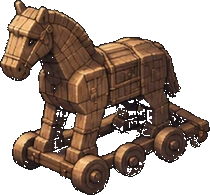
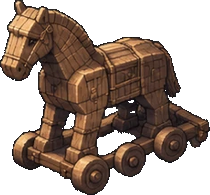
fix : 트로이 목마의 뒷다리가 사라지고 몸이 통째로 흐려지던 문제 수정 — 그늘진 뒷다리·배 밑을 배경으로 지우지 않도록 gen_env_from_sheet.py에 그림별 어두운 색 기준(DARK_KEEP, 목마 16)을 두고 horse.png 다시 생성, 가림 투명화는 그림 사각형 대신 실제로 칠해진 픽셀이 플레이어 몸을 덮을 때만 작동(iso_level.gd의 _covers)

diff --git a/godot/tools/gen_env_from_sheet.py b/godot/tools/gen_env_from_sheet.py
@@ -39,24 +39,26 @@ ITEMS = {
     "spear_rack": ((211, 278), (200, 360), (1, 1), K),
     "cart": ((289, 392), (200, 360), (1, 1), K),
 }
+# 그늘진 어두운 갈색이 배경과 가까운 그림: 붉은빛 어두운 색을 남기는 기준을 낮춘다(목마 뒷다리)
+DARK_KEEP = {"horse": 16}
 # 바닥 그림 줄 → 게임 바닥 이름 (env.json floor_atlas.rows 순서로 다시 쌓는다)
 FLOOR_SRC = {"cobble": 0, "plaza": 1, "dirt": 2, "road": 3, "grass": 4, "ash": 5}
 FLOOR_BOX = (8, 369, 376, 650)
 TILE = (64, 32)
 
 
-def mask_of(a):
+def mask_of(a, dark_keep=30):
     a = a.astype(int)
     d = np.abs(a - BG).sum(2)
     # 배경과 조금 다른 어두운 푸른빛(그림자·압축 잡음)은 배경으로, 어두운 나무(붉은빛)는 남긴다
     bluish_dark = (a[..., 2] >= a[..., 0]) & (a.max(2) < 90)
-    return (d > 48) | ((d > 30) & ~bluish_dark)
+    return (d > 48) | ((d > dark_keep) & ~bluish_dark)
 
 
-def cut(src, xr, yr):
+def cut(src, xr, yr, dark_keep=30):
     """범위 안 그림을 배경 없는 RGBA로 (남는 여백은 잘라냄)."""
     a = src[yr[0]:yr[1], xr[0]:xr[1]]
-    m = mask_of(a)
+    m = mask_of(a, dark_keep)
     ys, xs = np.nonzero(m)
     a, m = a[ys.min():ys.max() + 1, xs.min():xs.max() + 1], m[ys.min():ys.max() + 1, xs.min():xs.max() + 1]
     rgba = np.dstack([a, (m * 255)]).astype(np.uint8)
@@ -300,7 +302,7 @@ def main(root):
     meta = json.loads((out / "env.json").read_text())
     src = np.asarray(Image.open(root / "assets/source/troy_env.webp").convert("RGB"))
     for name, (xr, yr, fp, k) in ITEMS.items():
-        img = shrink(cut(src, xr, yr), k)
+        img = shrink(cut(src, xr, yr, DARK_KEEP.get(name, 30)), k)
         variants = [(name, img)]
         if name == "gate_closed":
             variants.append(("gate_open", open_gate(img)))
